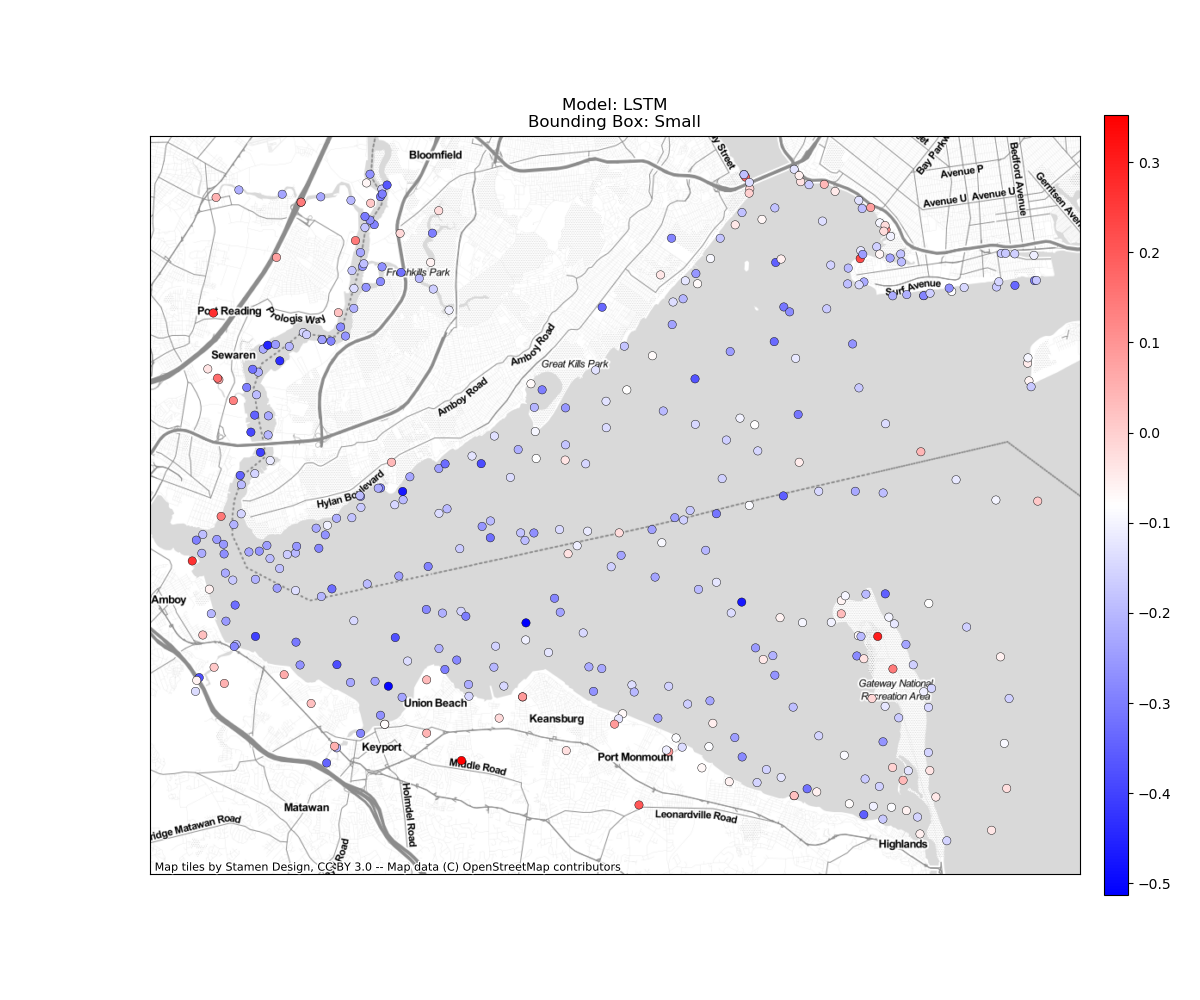
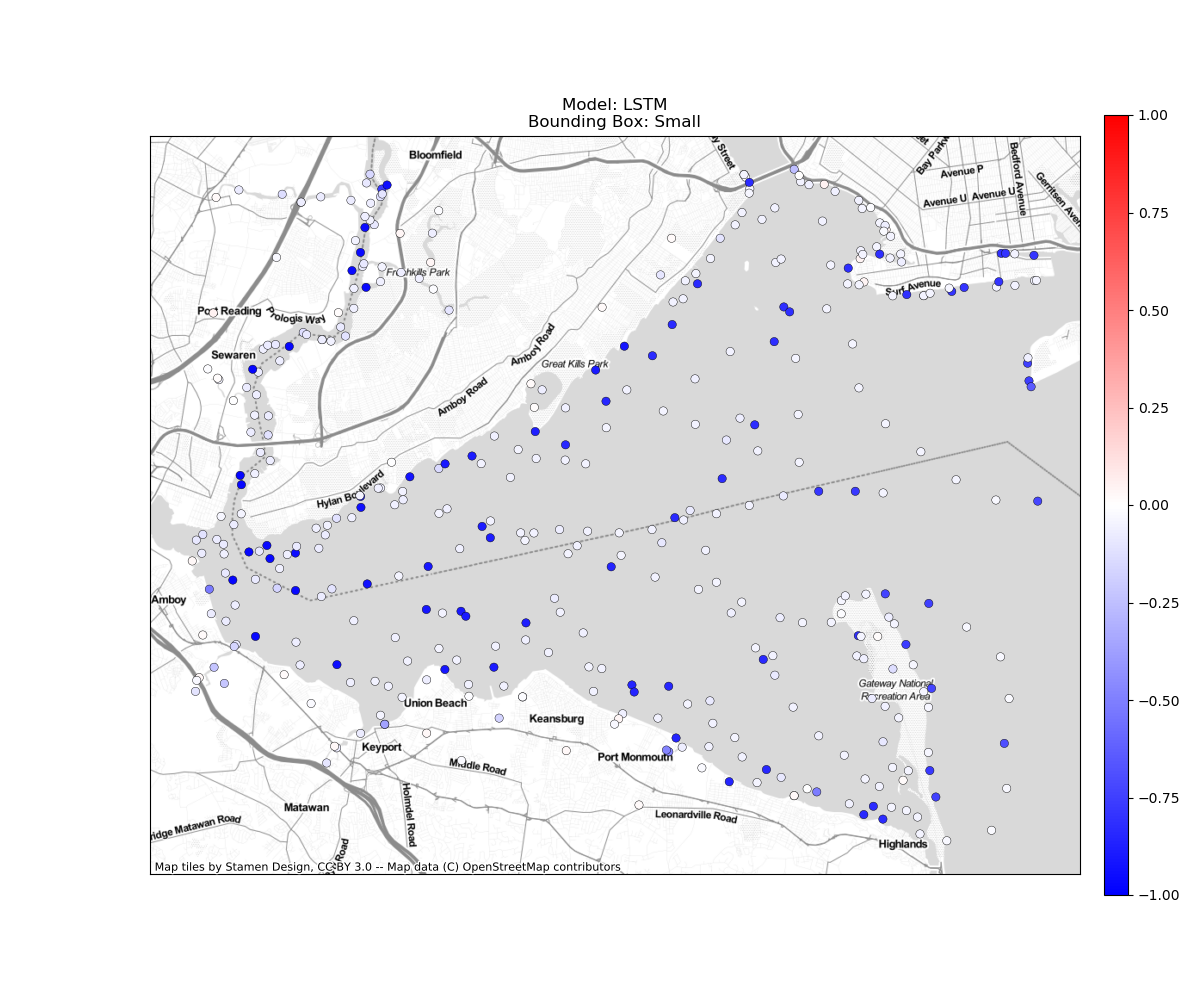
new spatial plots

diff --git a/spatial_plots.py b/spatial_plots.py
@@ -21,14 +21,14 @@ path_to_models = os.path.join(os.getcwd(), 'LSTM_training_results',
 						'Model_results')
 models = [
 			"LSTM_B15_h100_l1_bbS",
-			"LSTM_LL1_B15_h100_l1_bbS",
-			"LSTM_LL2_B15_h100_l1_bbS",
+			"LSTM_LL1_B15_h256_l1_bbS",
+			"LSTM_LL2_B15_h256_l1_bbS",
 			
-			"LSTM_LL1_B15_h100_l1_bbM",
-			"LSTM_LL2_B15_h100_l1_bbM",
+			# "LSTM_LL1_B15_h100_l1_bbM",
+			# "LSTM_LL2_B15_h100_l1_bbM",
 			
-			"LSTM_LL1_B15_h100_l1_bbL",
-			"LSTM_LL2_B15_h100_l1_bbL",
+			# "LSTM_LL1_B15_h100_l1_bbL",
+			# "LSTM_LL2_B15_h100_l1_bbL",
 			  ]
 
 model_names = [
@@ -58,9 +58,9 @@ cbar_axes = [
 			[0.83, 0.105, 0.02, 0.78],		# lg. bounding box
 			[0.83, 0.105, 0.02, 0.78]
 			]
-cbar_max = [0.35, 0.35, 0.35, 
-			0.7, 0.7,
-			0.4, 0.4
+cbar_max = [1.0, 1.0, 1.0, 
+			1.0, 1.0,
+			1.0, 1.0
 			]
 
 for i, model in enumerate(models):
@@ -73,7 +73,7 @@ for i, model in enumerate(models):
 	target = pd.read_csv(target).mean(axis=0)
 
 	error = predict-target
-	
+	print(error.max(), error.min())
 	sp = error.index.to_list()	
 	sp = [(i.split('_')[1]) for i in sp]
 	sp2coord_temp = sp2coord[sp2coord['SavePointID'].isin(sp)]
